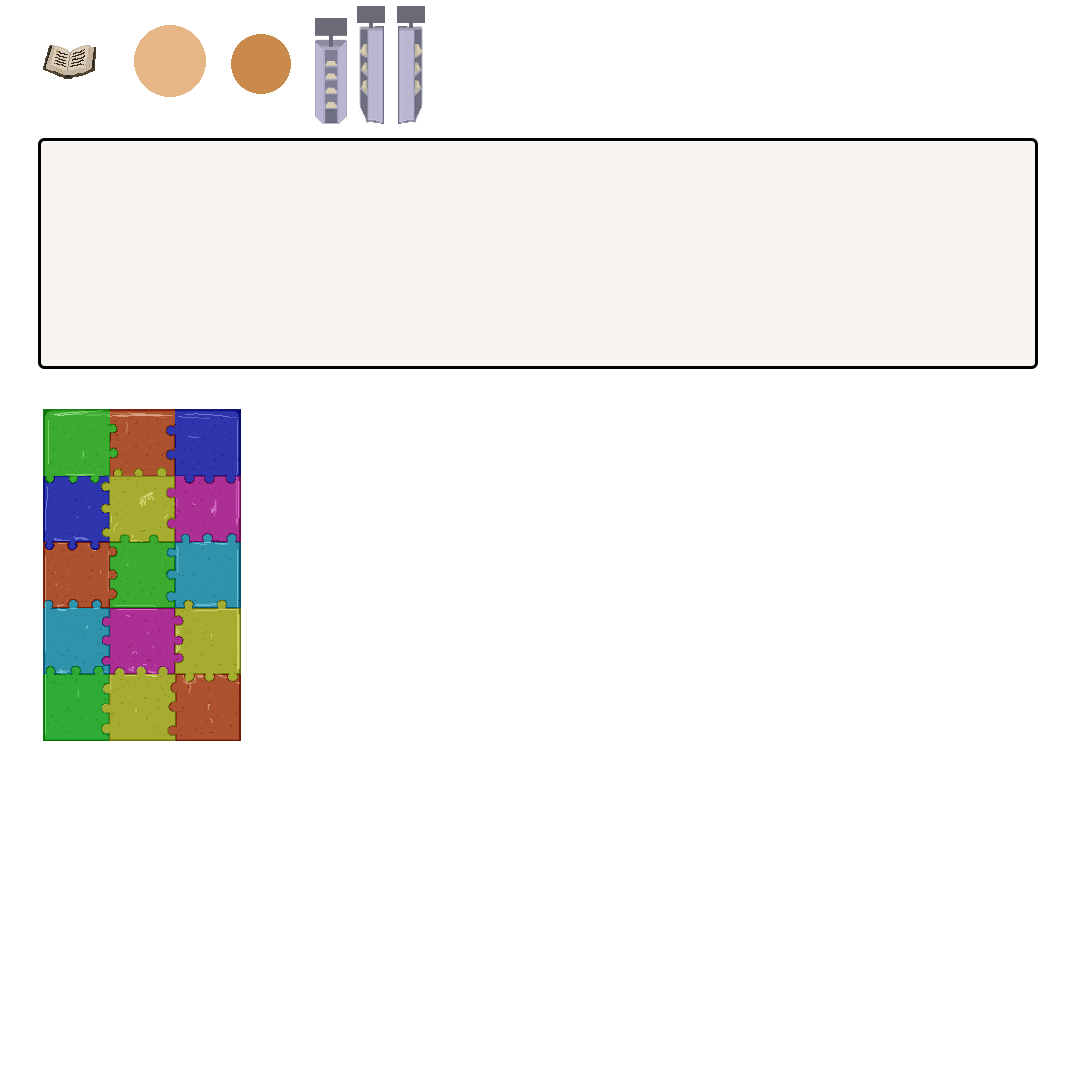
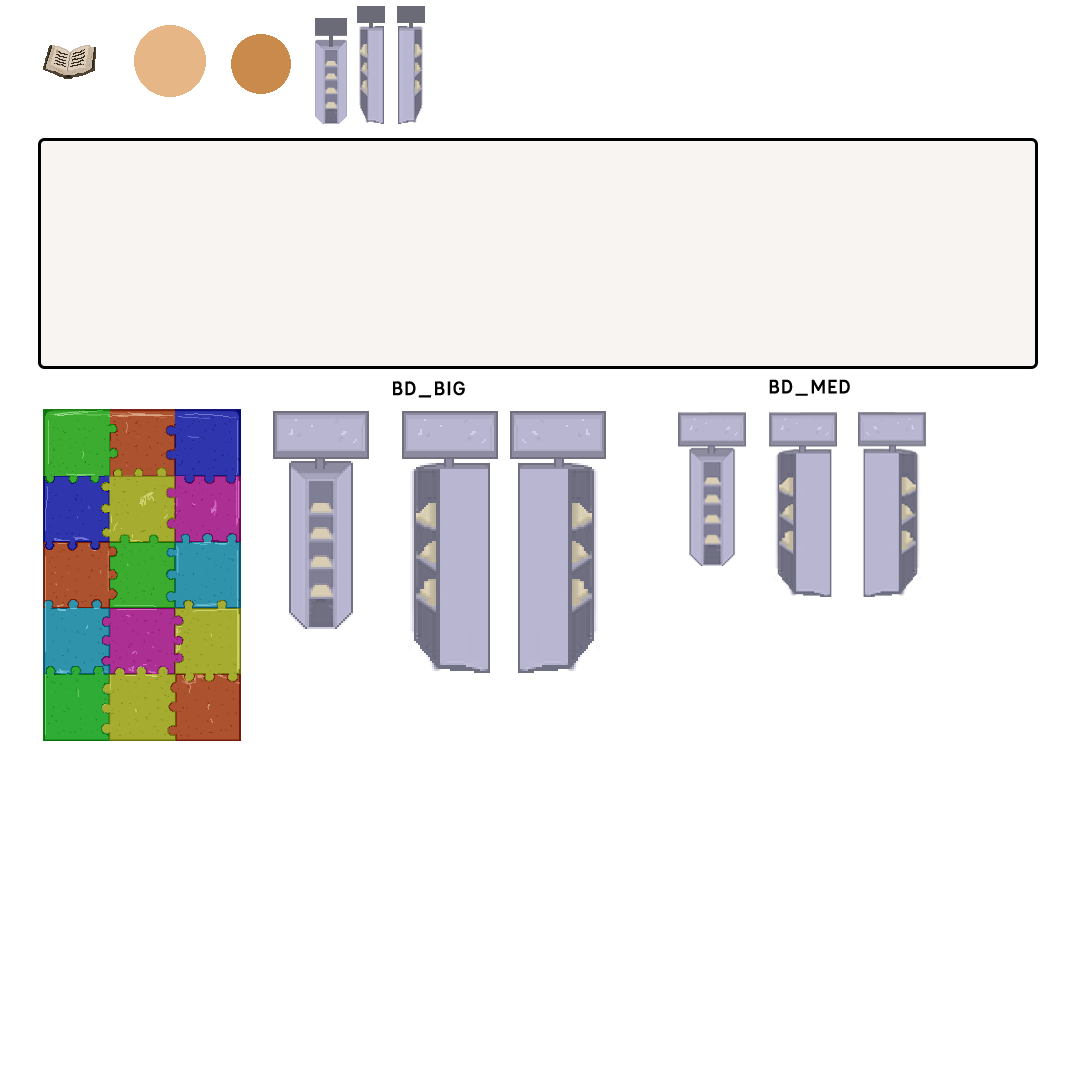
WIP BlockDispenser

Changed region(s): [[0.2444, 0.3361, 0.5806, 0.6417], [0.6111, 0.3361, 0.8556, 0.55]]

diff --git a/core/src/com/codex/learning/entity/blocks/BlockDispenser.java b/core/src/com/codex/learning/entity/blocks/BlockDispenser.java
@@ -5,6 +5,7 @@ import com.badlogic.gdx.Input;
 import com.badlogic.gdx.graphics.Texture;
 import com.badlogic.gdx.graphics.g2d.SpriteBatch;
 import com.badlogic.gdx.graphics.g2d.TextureRegion;
+import com.badlogic.gdx.graphics.glutils.ShapeRenderer;
 import com.badlogic.gdx.math.Vector2;
 import com.badlogic.gdx.physics.box2d.BodyDef;
 import com.badlogic.gdx.physics.box2d.FixtureDef;
@@ -23,7 +24,7 @@ public class BlockDispenser extends Entity {
     private String id;
     private String name;
     private int limit;
-    private Blocks blockID;
+    private ShapeRenderer blockID;
     private Blocks[] blocks;
     private Vector2 blockSize;
 
@@ -68,11 +69,7 @@ public class BlockDispenser extends Entity {
         inDispenser = false;
         spawned = false;
 
-        blockID = new Blocks(manager, id, name);
-        blockID.create(new Vector2(this.position.x, this.position.y + 1.6f),
-                blockSize, 0);
-        blockID.getBody().setType(BodyDef.BodyType.StaticBody);
-
+        blockID = new ShapeRenderer();
         createDispenser();
     }
 
@@ -92,7 +89,19 @@ public class BlockDispenser extends Entity {
                 body.getPosition().y * Constants.PPM - blockDispenser.getRegionHeight() / 2);
         sprite.end();
 
-        blockID.render(sprite);
+        blockID.setProjectionMatrix(manager.getCamera().combined);
+        blockID.setColor(246/255f, 228/255f, 216/255f, 0.0f);
+        blockID.begin(ShapeRenderer.ShapeType.Filled);
+        blockID.rect((this.size.x + (Constants.PPM * body.getPosition().x)),
+                (this.size.y + (Constants.PPM * body.getPosition().y)),
+                ((this.size.x * Constants.PPM)) * 6.3f,
+                -(this.size.y * Constants.PPM / 2));
+        blockID.end();
+
+        sprite.begin();
+        createIDDispenser(sprite);
+        sprite.end();
+
         if(spawned){
             System.out.println("BEFORE _ " + limit);
             blocks[limit].render(sprite);
@@ -122,6 +131,8 @@ public class BlockDispenser extends Entity {
                         Constants.BLOCK_MACHINE_FRONT_Y,
                         Constants.BLOCK_MACHINE_FRONT_WIDTH,
                         Constants.BLOCK_MACHINE_FRONT_HEIGHT);
+                blockID.translate(this.size.x - Constants.PPM / 1.1f,
+                        this.size.y * Constants.PPM * 1.62f, 0);
             break;
             case "Left":
                 blockDispenser = new TextureRegion(new Texture(Constants.UTILITY_SHEET_PATH),
@@ -129,6 +140,8 @@ public class BlockDispenser extends Entity {
                         Constants.BLOCK_MACHINE_Y,
                         Constants.BLOCK_MACHINE_WIDTH,
                         Constants.BLOCK_MACHINE_HEIGHT);
+                blockID.translate(this.size.x - Constants.PPM / 1.05f,
+                        this.size.y * Constants.PPM * 2.02f, 0);
             break;
             case "Right":
                 blockDispenser = new TextureRegion(new Texture(Constants.UTILITY_SHEET_PATH),
@@ -136,6 +149,24 @@ public class BlockDispenser extends Entity {
                         Constants.BLOCK_MACHINE_Y,
                         Constants.BLOCK_MACHINE_WIDTH,
                         Constants.BLOCK_MACHINE_HEIGHT);
+                blockID.translate(this.size.x - Constants.PPM / 1.228f,
+                        this.size.y * Constants.PPM * 2.02f, 0);
+            break;
+        }
+    }
+
+    public void createIDDispenser(SpriteBatch sprite){
+        switch (direction){
+            case "Down":
+                manager.getFont().draw(sprite, this.id,
+                        (this.size.x - (this.size.x * (Constants.PPM * 0.3f)) + (Constants.PPM * body.getPosition().x)),
+                        (this.size.y + Constants.PPM * 7));
+            break;
+            case "Left":
+            case "Right":
+                manager.getFont().draw(sprite, this.id,
+                        (this.size.x - (this.size.x * (Constants.PPM * 0.3f)) + (Constants.PPM * body.getPosition().x)),
+                        (float) (this.size.y + Constants.PPM * 7.5));
             break;
         }
     }

diff --git a/core/src/com/codex/learning/utility/Constants.java b/core/src/com/codex/learning/utility/Constants.java
@@ -195,16 +195,16 @@ public class Constants {
 
     //UTILITY SHEET
 
-    public static final int BLOCK_MACHINE_FRONT_X = 311;
-    public static final int BLOCK_MACHINE_FRONT_Y = 15;
-    public static final int BLOCK_MACHINE_FRONT_WIDTH = 39;
-    public static final int BLOCK_MACHINE_FRONT_HEIGHT = 109;
+    public static final int BLOCK_MACHINE_FRONT_X = 672;
+    public static final int BLOCK_MACHINE_FRONT_Y = 409;
+    public static final int BLOCK_MACHINE_FRONT_WIDTH = 78;
+    public static final int BLOCK_MACHINE_FRONT_HEIGHT = 156;
 
-    public static final int BLOCK_MACHINE_LEFT_X = 354;
-    public static final int BLOCK_MACHINE_RIGHT_X = 392;
-    public static final int BLOCK_MACHINE_Y = 3;
-    public static final int BLOCK_MACHINE_WIDTH = 34;
-    public static final int BLOCK_MACHINE_HEIGHT = 122;
+    public static final int BLOCK_MACHINE_LEFT_X = 764;
+    public static final int BLOCK_MACHINE_RIGHT_X = 850;
+    public static final int BLOCK_MACHINE_Y = 409;
+    public static final int BLOCK_MACHINE_WIDTH = 79;
+    public static final int BLOCK_MACHINE_HEIGHT = 187;
 
     //END OF UTILITY SHEET
 

diff --git a/core/src/com/codex/learning/states/PlayState.java b/core/src/com/codex/learning/states/PlayState.java
@@ -54,7 +54,7 @@ public class PlayState extends State{
         blockDispenser = new BlockDispenser(manager, "Down", "}", " } ", 3, new Vector2(0.3f, 0.7f));
         blockDispenser.create(new Vector2(1, 5), new Vector2(0.3f, 1.3f), 0);
 
-        blockDispenser2 = new BlockDispenser(manager, "Left", "}", " } ", 3, new Vector2(0.3f, 0.7f));
+        blockDispenser2 = new BlockDispenser(manager, "Right", "}", " } ", 3, new Vector2(0.3f, 0.7f));
         blockDispenser2.create(new Vector2(6, 5), new Vector2(0.3f, 1.3f), 0);
     }
 
